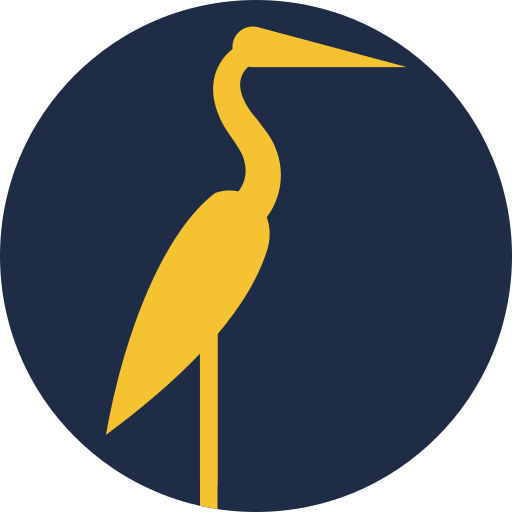
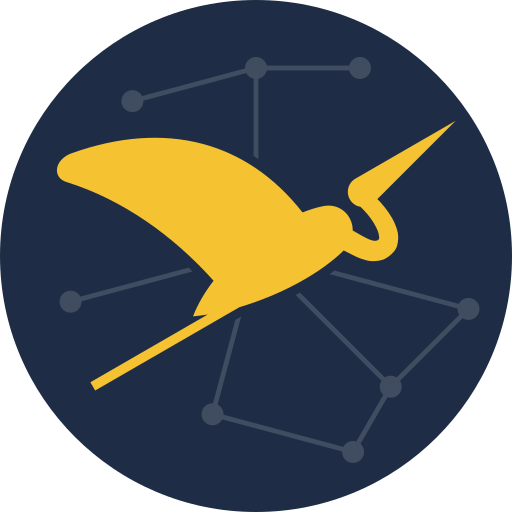
specgraph gets its own mark: the climbing heron as the hub of a graph
The icon is the climbing heron in the Notte circle with faint edges running
from behind its body to nodes, in a tone of Notte that never touches the
heron. The masters are in brand/, with one-colour and reversed versions that
drop the graph; the guidelines say why Airone Giallo keeps the standing heron.

Changed region(s): [[0.0938, 0.0312, 0.9375, 1.0]]

diff --git a/brand/GUIDELINES.md b/brand/GUIDELINES.md
@@ -6,6 +6,11 @@ app icons, use the tight crop (`airone-standing-tight-circle-notte.svg`): the sa
 The lockup puts the mark left of the wordmark *Airone Giallo* (EB Garamond, outlined;
 SIL Open Font License): `lockup-light.svg` and `lockup-dark.svg`.
 
+**specgraph's mark.** The climbing heron as the hub of a graph: faint edges run from behind its body to nodes, in a
+tone of Notte that never touches the heron (`specgraph.svg`; `graph/.claude-plugin/icon.png` is its 512 px render).
+Its one-colour and reversed versions drop the graph (`specgraph-mono-black.svg`, `specgraph-mono-white.svg`). At 16 px
+the graph fades and the pose tells it from Airone Giallo's standing heron, so Airone Giallo keeps the standing one.
+
 ## Colours
 
 | Name | HEX | RGB | Use |
